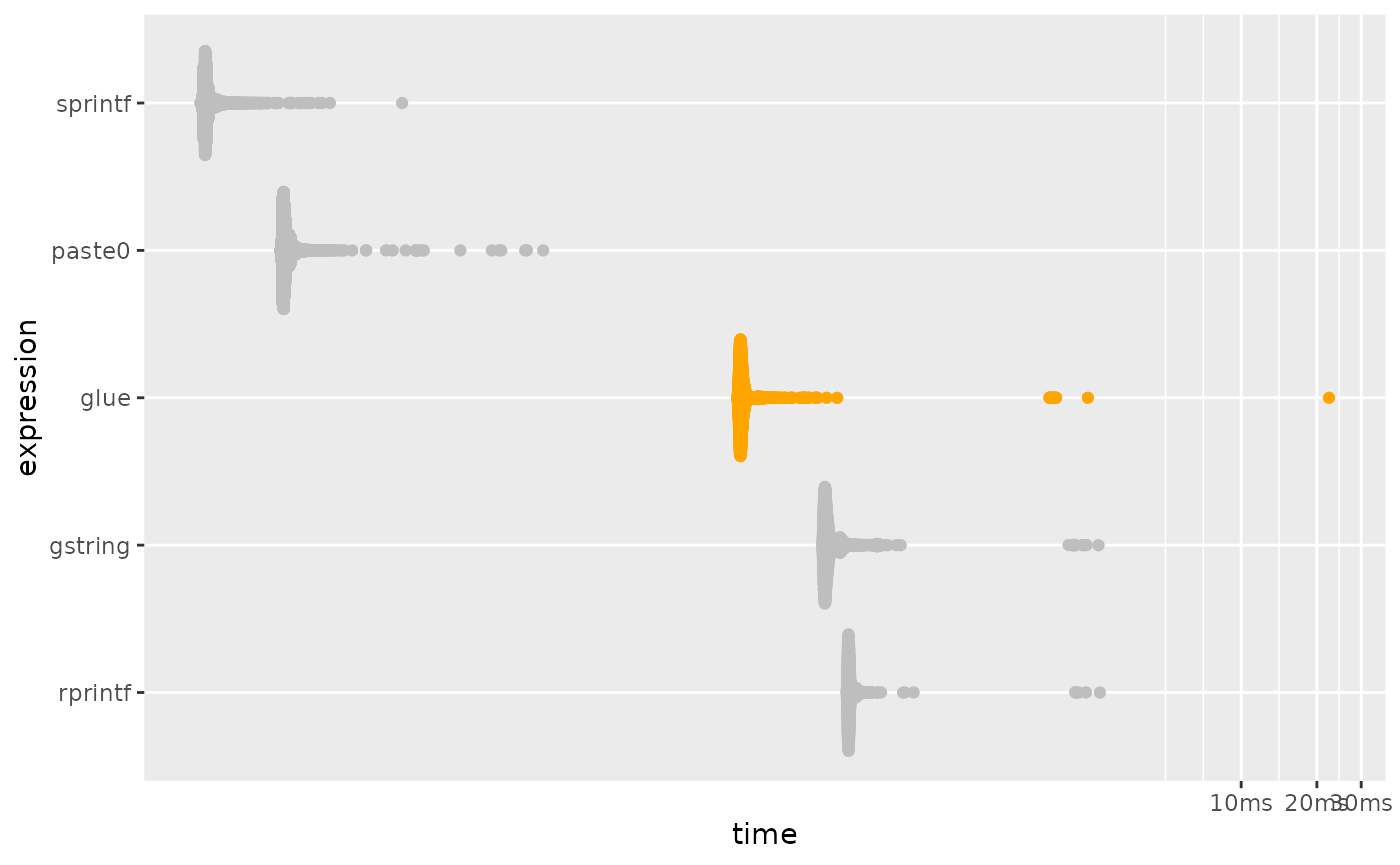
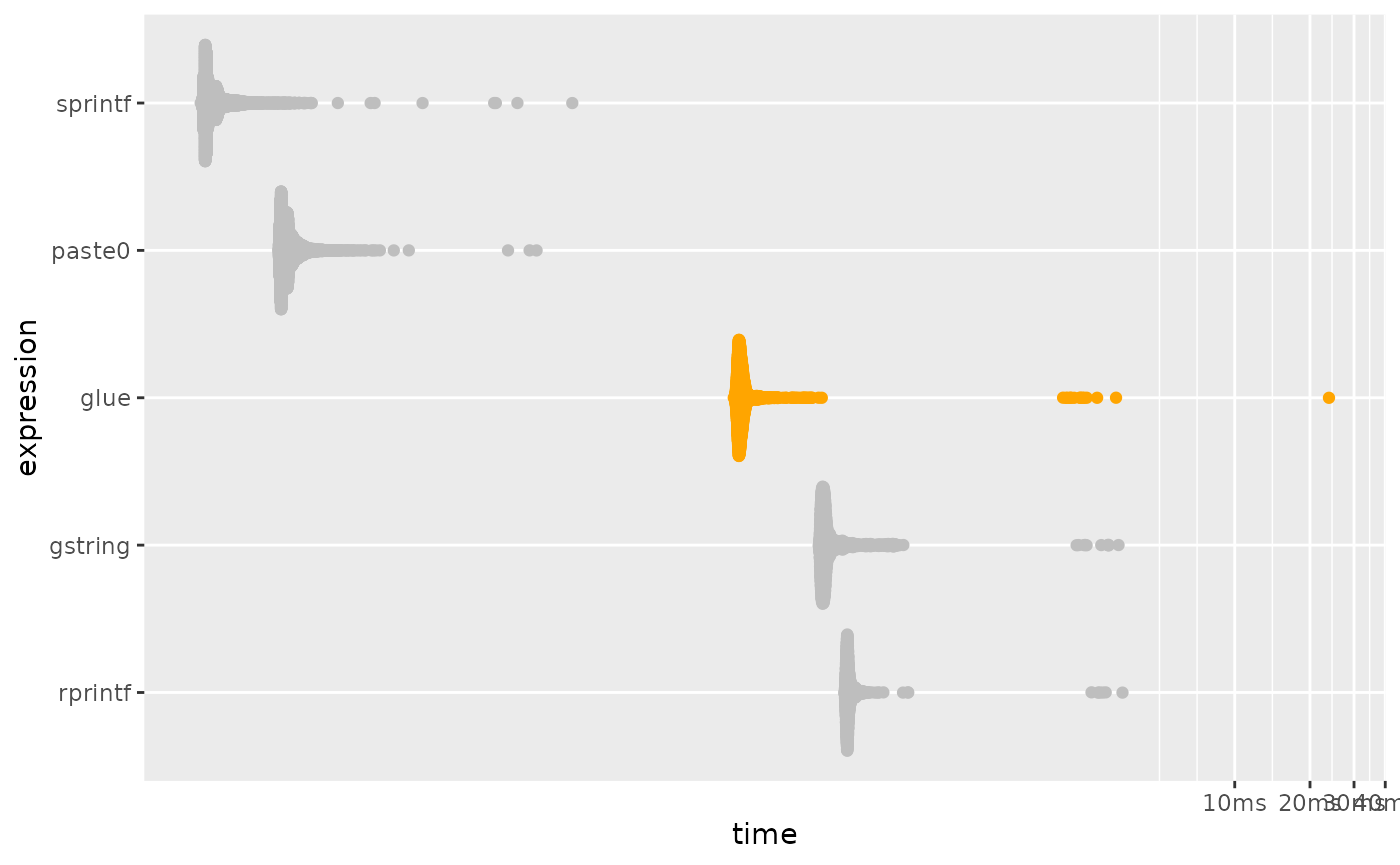
Deploying to gh-pages from @ tidyverse/glue@84ea0883af55d4b9528ac00c3c340565895a58a8 🚀

diff --git a/dev/articles/speed.html b/dev/articles/speed.html
@@ -166,11 +166,11 @@ this benchmark, but is now formally marked as “superseded”, in favor of
 <span><span class="co">#&gt; <span style="color: #949494;"># A tibble: 5 × 6</span></span></span>
 <span><span class="co">#&gt;   expression      min   median `itr/sec` mem_alloc `gc/sec`</span></span>
 <span><span class="co">#&gt;   <span style="color: #949494; font-style: italic;">&lt;bch:expr&gt;</span> <span style="color: #949494; font-style: italic;">&lt;bch:tm&gt;</span> <span style="color: #949494; font-style: italic;">&lt;bch:tm&gt;</span>     <span style="color: #949494; font-style: italic;">&lt;dbl&gt;</span> <span style="color: #949494; font-style: italic;">&lt;bch:byt&gt;</span>    <span style="color: #949494; font-style: italic;">&lt;dbl&gt;</span></span></span>
-<span><span class="co">#&gt; <span style="color: #BCBCBC;">1</span> sprintf    730.97ns 771.02ns  1<span style="text-decoration: underline;">265</span>453.        0B      0  </span></span>
-<span><span class="co">#&gt; <span style="color: #BCBCBC;">2</span> paste0       1.52µs   1.58µs   <span style="text-decoration: underline;">615</span>824.        0B      0  </span></span>
-<span><span class="co">#&gt; <span style="color: #BCBCBC;">3</span> glue        99.58µs  102.8µs     <span style="text-decoration: underline;">9</span>563.  140.53KB     33.2</span></span>
-<span><span class="co">#&gt; <span style="color: #BCBCBC;">4</span> gstring    215.67µs 224.63µs     <span style="text-decoration: underline;">4</span>278.    2.45MB     21.0</span></span>
-<span><span class="co">#&gt; <span style="color: #BCBCBC;">5</span> rprintf     270.3µs 275.85µs     <span style="text-decoration: underline;">3</span>584.   78.14KB     12.3</span></span>
+<span><span class="co">#&gt; <span style="color: #BCBCBC;">1</span> sprintf    731.09ns 782.08ns  1<span style="text-decoration: underline;">180</span>802.        0B      0  </span></span>
+<span><span class="co">#&gt; <span style="color: #BCBCBC;">2</span> paste0       1.49µs   1.61µs   <span style="text-decoration: underline;">602</span>800.        0B      0  </span></span>
+<span><span class="co">#&gt; <span style="color: #BCBCBC;">3</span> glue        99.12µs 105.33µs     <span style="text-decoration: underline;">9</span>317.  140.53KB     31.5</span></span>
+<span><span class="co">#&gt; <span style="color: #BCBCBC;">4</span> gstring    216.82µs 228.84µs     <span style="text-decoration: underline;">4</span>108.    2.45MB     21.2</span></span>
+<span><span class="co">#&gt; <span style="color: #BCBCBC;">5</span> rprintf    274.89µs 283.28µs     <span style="text-decoration: underline;">3</span>480.   78.14KB     12.4</span></span>
 <span></span>
 <span><span class="co"># plotting function defined in a hidden chunk</span></span>
 <span><span class="fu">plot_comparison</span><span class="op">(</span><span class="va">simple</span><span class="op">)</span></span></code></pre></div>
@@ -213,11 +213,11 @@ performance is much closer to that of <code><a href="https://rdrr.io/r/base/past
 <span><span class="co">#&gt; <span style="color: #949494;"># A tibble: 5 × 6</span></span></span>
 <span><span class="co">#&gt;   expression      min   median `itr/sec` mem_alloc `gc/sec`</span></span>
 <span><span class="co">#&gt;   <span style="color: #949494; font-style: italic;">&lt;bch:expr&gt;</span> <span style="color: #949494; font-style: italic;">&lt;bch:tm&gt;</span> <span style="color: #949494; font-style: italic;">&lt;bch:tm&gt;</span>     <span style="color: #949494; font-style: italic;">&lt;dbl&gt;</span> <span style="color: #949494; font-style: italic;">&lt;bch:byt&gt;</span>    <span style="color: #949494; font-style: italic;">&lt;dbl&gt;</span></span></span>
-<span><span class="co">#&gt; <span style="color: #BCBCBC;">1</span> paste0        8.3ms   8.34ms     119.    781.3KB     4.12</span></span>
-<span><span class="co">#&gt; <span style="color: #BCBCBC;">2</span> sprintf      9.51ms    9.9ms     101.    781.3KB     2.06</span></span>
-<span><span class="co">#&gt; <span style="color: #BCBCBC;">3</span> gstring      11.2ms  11.27ms      88.0    1.53MB     6.44</span></span>
-<span><span class="co">#&gt; <span style="color: #BCBCBC;">4</span> glue        12.38ms   12.5ms      79.5    2.29MB     9.09</span></span>
-<span><span class="co">#&gt; <span style="color: #BCBCBC;">5</span> rprintf     27.53ms  27.82ms      35.8    3.05MB     4.47</span></span>
+<span><span class="co">#&gt; <span style="color: #BCBCBC;">1</span> paste0       8.31ms   8.35ms     119.    781.3KB     4.18</span></span>
+<span><span class="co">#&gt; <span style="color: #BCBCBC;">2</span> sprintf      9.71ms  10.04ms      99.7   781.3KB     4.15</span></span>
+<span><span class="co">#&gt; <span style="color: #BCBCBC;">3</span> gstring      11.2ms  11.29ms      88.4    1.53MB     6.47</span></span>
+<span><span class="co">#&gt; <span style="color: #BCBCBC;">4</span> glue        12.38ms  12.67ms      78.8    2.29MB     6.57</span></span>
+<span><span class="co">#&gt; <span style="color: #BCBCBC;">5</span> rprintf     27.65ms  28.15ms      35.2    3.05MB     4.41</span></span>
 <span></span>
 <span><span class="co"># plotting function defined in a hidden chunk</span></span>
 <span><span class="fu">plot_comparison</span><span class="op">(</span><span class="va">vectorized</span><span class="op">)</span></span></code></pre></div>

diff --git a/dev/reference/glue_sql.html b/dev/reference/glue_sql.html
@@ -334,13 +334,13 @@ template with <code><a href="trim.html">trim()</a></code> or not.</p></dd>
 <span class="r-in"><span><span class="fu">DBI</span><span class="fu">::</span><span class="fu"><a href="https://dbi.r-dbi.org/reference/dbWriteTable.html" class="external-link">dbWriteTable</a></span><span class="op">(</span><span class="va">con</span>, <span class="va">nicknames_db</span>, <span class="va">nicknames</span><span class="op">)</span></span></span>
 <span class="r-in"><span></span></span>
 <span class="r-in"><span><span class="va">cols</span> <span class="op">&lt;-</span> <span class="fu"><a href="https://rdrr.io/r/base/list.html" class="external-link">list</a></span><span class="op">(</span></span></span>
-<span class="r-in"><span>  <span class="fu">DBI</span><span class="fu">::</span><span class="fu"><a href="https://dbi.r-dbi.org/reference/Id.html" class="external-link">Id</a></span><span class="op">(</span>table <span class="op">=</span> <span class="va">iris_db</span>, column <span class="op">=</span> <span class="st">"sepal_length"</span><span class="op">)</span>,</span></span>
-<span class="r-in"><span>  <span class="fu">DBI</span><span class="fu">::</span><span class="fu"><a href="https://dbi.r-dbi.org/reference/Id.html" class="external-link">Id</a></span><span class="op">(</span>table <span class="op">=</span> <span class="va">iris_db</span>, column <span class="op">=</span> <span class="st">"sepal_width"</span><span class="op">)</span>,</span></span>
-<span class="r-in"><span>  <span class="fu">DBI</span><span class="fu">::</span><span class="fu"><a href="https://dbi.r-dbi.org/reference/Id.html" class="external-link">Id</a></span><span class="op">(</span>table <span class="op">=</span> <span class="va">nicknames_db</span>, column <span class="op">=</span> <span class="st">"nickname"</span><span class="op">)</span></span></span>
+<span class="r-in"><span>  <span class="fu">DBI</span><span class="fu">::</span><span class="fu"><a href="https://dbi.r-dbi.org/reference/Id.html" class="external-link">Id</a></span><span class="op">(</span><span class="va">iris_db</span>, <span class="st">"sepal_length"</span><span class="op">)</span>,</span></span>
+<span class="r-in"><span>  <span class="fu">DBI</span><span class="fu">::</span><span class="fu"><a href="https://dbi.r-dbi.org/reference/Id.html" class="external-link">Id</a></span><span class="op">(</span><span class="va">iris_db</span>, <span class="st">"sepal_width"</span><span class="op">)</span>,</span></span>
+<span class="r-in"><span>  <span class="fu">DBI</span><span class="fu">::</span><span class="fu"><a href="https://dbi.r-dbi.org/reference/Id.html" class="external-link">Id</a></span><span class="op">(</span><span class="va">nicknames_db</span>, <span class="st">"nickname"</span><span class="op">)</span></span></span>
 <span class="r-in"><span><span class="op">)</span></span></span>
 <span class="r-in"><span></span></span>
-<span class="r-in"><span><span class="va">iris_species</span> <span class="op">&lt;-</span> <span class="fu">DBI</span><span class="fu">::</span><span class="fu"><a href="https://dbi.r-dbi.org/reference/Id.html" class="external-link">Id</a></span><span class="op">(</span>table <span class="op">=</span> <span class="va">iris_db</span>, column <span class="op">=</span> <span class="st">"species"</span><span class="op">)</span></span></span>
-<span class="r-in"><span><span class="va">nicknames_species</span> <span class="op">&lt;-</span> <span class="fu">DBI</span><span class="fu">::</span><span class="fu"><a href="https://dbi.r-dbi.org/reference/Id.html" class="external-link">Id</a></span><span class="op">(</span>table <span class="op">=</span> <span class="va">nicknames_db</span>, column <span class="op">=</span> <span class="st">"species"</span><span class="op">)</span></span></span>
+<span class="r-in"><span><span class="va">iris_species</span> <span class="op">&lt;-</span> <span class="fu">DBI</span><span class="fu">::</span><span class="fu"><a href="https://dbi.r-dbi.org/reference/Id.html" class="external-link">Id</a></span><span class="op">(</span><span class="va">iris_db</span>, <span class="st">"species"</span><span class="op">)</span></span></span>
+<span class="r-in"><span><span class="va">nicknames_species</span> <span class="op">&lt;-</span> <span class="fu">DBI</span><span class="fu">::</span><span class="fu"><a href="https://dbi.r-dbi.org/reference/Id.html" class="external-link">Id</a></span><span class="op">(</span><span class="va">nicknames_db</span>, <span class="st">"species"</span><span class="op">)</span></span></span>
 <span class="r-in"><span></span></span>
 <span class="r-in"><span><span class="va">query</span> <span class="op">&lt;-</span> <span class="fu">glue_sql</span><span class="op">(</span><span class="st">"</span></span></span>
 <span class="r-in"><span><span class="st">  SELECT {`cols`*}</span></span></span>
